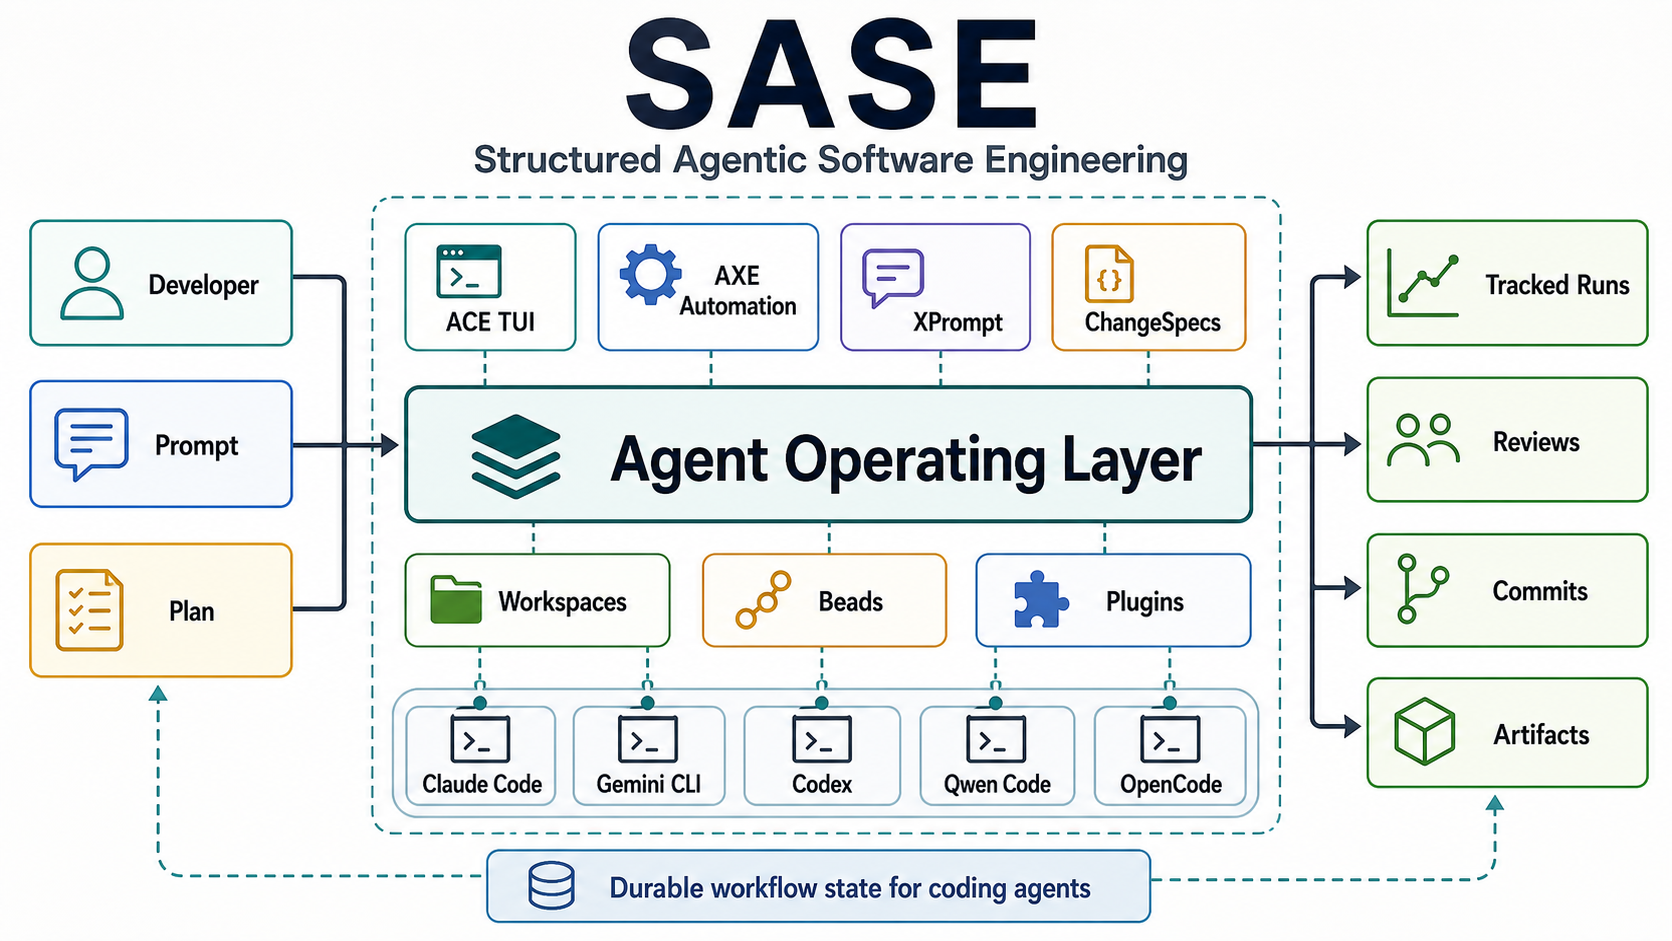
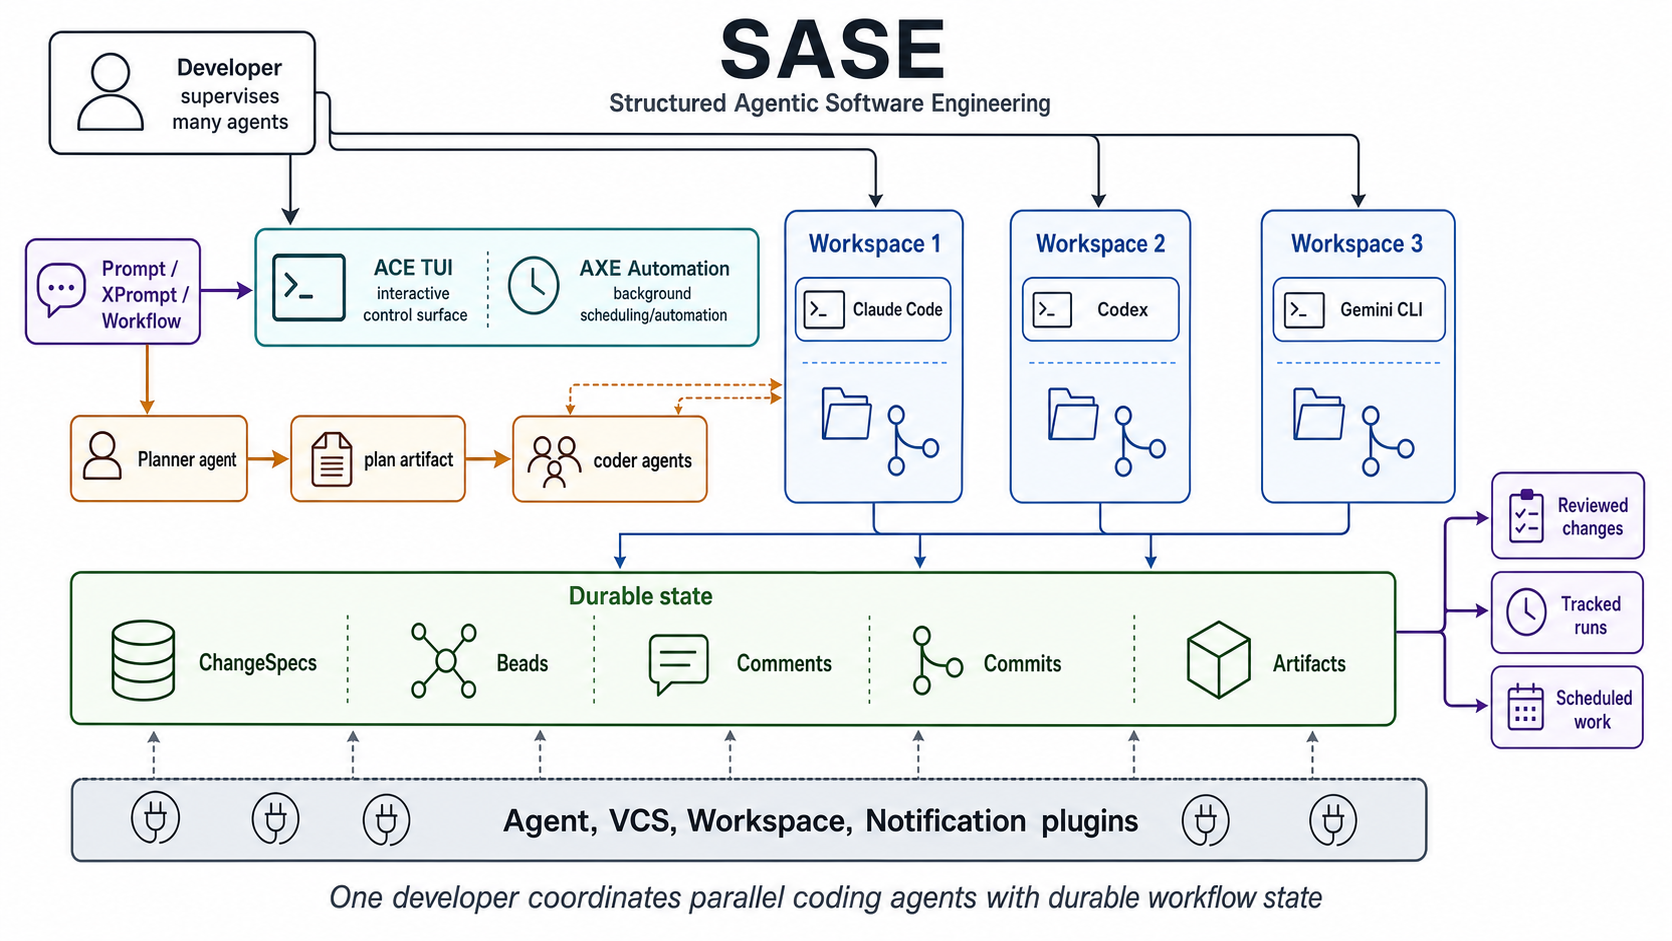
chore: update SASE overview image
Replace the README and docs overview image with a diagram that better reflects SASE's parallel workspace model, planner-to-coder handoff, durable state, and plugin boundaries.

Changed region(s): [[0.0, 0.0, 0.9952, 0.9862]]

diff --git a/docs/images/sase_overview.prompt.md b/docs/images/sase_overview.prompt.md
@@ -10,7 +10,7 @@ pdf: false
 - README insertion point: after the opening description and before `## Why sase`
 - Docs homepage insertion point: inside the hero visual
 - Final image: `docs/images/sase_overview.png`
-- Alt text: "Visual overview of sase"
+- Alt text: "Overview of SASE coordinating parallel coding agents, isolated workspaces, and durable workflow state"
 
 ## Final GPT Image Prompt
 
@@ -18,44 +18,67 @@ Use case: infographic-diagram
 
 Asset type: GitHub README overview image for the open-source project "sase - Structured Agentic Software Engineering".
 
-Primary request: Create a clean 16:9 landscape technical architecture infographic that explains SASE as an operating
-layer for dependable agent-driven software engineering. This image will render near the top of a GitHub README at about
-800px wide, so it must be readable, calm, and documentation-oriented.
+Primary request: Create a clean 16:9 landscape technical architecture infographic that accurately explains how SASE
+works. It must be readable at about 800px wide in a GitHub README, with short labels and precise flow.
 
 Exact visible labels to include, spelled exactly:
 
 - Title: SASE
 - Subtitle: Structured Agentic Software Engineering
-- Center hub: Agent Operating Layer
-- Left sources: Developer, Prompt, Plan
-- Agent row: Claude Code, Gemini CLI, Codex, Qwen Code, OpenCode
-- Core modules around the hub: ACE TUI, AXE Automation, XPrompt, ChangeSpecs, Workspaces, Beads, Plugins
-- Right outcomes: Tracked Runs, Reviews, Commits, Artifacts
-- Footer note: Durable workflow state for coding agents
+- Top-left actor: Developer supervises many agents
+- Coordination layer: ACE TUI + AXE Automation
+- Input lane: Prompt / XPrompt / Workflow
+- Planning handoff: Planner agent -> plan artifact -> coder agents
+- Workspace fan-out labels: Workspace 1, Workspace 2, Workspace 3
+- Agent labels inside workspaces: Claude Code, Codex, Gemini CLI
+- Provider boundary label: Agent, VCS, Workspace, Notification plugins
+- Durable state labels: ChangeSpecs, Beads, Comments, Commits, Artifacts
+- Outcome labels: Reviewed changes, Tracked runs, Scheduled work
+- Footer note: One developer coordinates parallel coding agents with durable workflow state
 
-Composition: Use a left-to-right systems diagram. On the left, show Developer, Prompt, and Plan as compact source cards
-feeding the central SASE hub. In the center, make "Agent Operating Layer" the largest architecture block, surrounded by
-smaller module blocks for ACE TUI, AXE Automation, XPrompt, ChangeSpecs, Workspaces, Beads, and Plugins. Beneath or
-within the central area, show a thin row of supported coding agents labeled Claude Code, Gemini CLI, Codex, Qwen Code,
-and OpenCode connected through the operating layer, not shown as competing products. On the right, split into four clear
-outcome blocks: Tracked Runs, Reviews, Commits, and Artifacts. Use arrows to show state and work flowing through SASE
-from inputs to agents to outcomes.
+Composition:
+
+- Show a left-to-right and top-to-bottom systems diagram, not a marketing poster.
+- Top left: a single Developer node supervising the system, with multiple thin lines reaching parallel workspaces.
+- Left/middle: a horizontal coordination layer labeled "ACE TUI + AXE Automation". ACE should read as interactive
+  control surface; AXE should read as background scheduling/automation.
+- Input lane feeds the coordination layer: "Prompt / XPrompt / Workflow".
+- Below input lane, show the planning handoff explicitly: "Planner agent -> plan artifact -> coder agents". The plan
+  artifact is produced by the planner and then handed to coder agents, not shown as a normal user input.
+- Center/right: show fan-out into three isolated workspace columns labeled "Workspace 1", "Workspace 2", and "Workspace
+  3". Each workspace contains one neutral terminal/chat agent pill labeled "Claude Code", "Codex", or "Gemini CLI" and a
+  small branch/file icon, implying real coding work happens in external agents inside isolated checkouts.
+- Beneath the workspaces, show a durable state layer as shared repositories/records: "ChangeSpecs", "Beads", "Comments",
+  "Commits", "Artifacts". Use database/document/node icons and arrows from workspaces back into state.
+- Along the lower edge, show a provider boundary strip labeled "Agent, VCS, Workspace, Notification plugins" to clarify
+  plugins are integration boundaries.
+- Right side outcomes: three compact blocks labeled "Reviewed changes", "Tracked runs", and "Scheduled work".
+
+Accuracy constraints:
+
+- Do not draw ACE, AXE, XPrompt, ChangeSpecs, Workspaces, Beads, and Plugins as equal sibling modules around a hub.
+- Do not make "Plan" look like a normal user-supplied input; show it as a planner-agent output handed to coder agents.
+- Do not draw agents as passive leaves. They are the execution workers inside isolated workspaces.
+- Do not use the phrase "Agent Operating Layer" anywhere.
+- Show parallelism clearly: one developer, several workspace columns, several agents working at once.
+- Show durable state separately from runtime coordination.
+- Show plugins as boundaries/integrations, not as a central feature box.
 
 Strict visual constraints: Do NOT draw or imitate any company, model, provider, or product logos. The supported-agent
-row must be plain text pills or neutral generic terminal/chat icons only. Do not use starbursts, knot symbols,
-official-looking app marks, mascots, badges, trademarks, or branded color marks. All icons must be generic line icons
-such as user, document, checklist, terminal, gear, chat bubble, folder, nodes, puzzle piece, graph, review, branch,
-cube, database.
+labels must be plain text pills or neutral generic terminal/chat icons only. Do not use starbursts, official-looking app
+marks, mascots, badges, trademarks, branded color marks, fake screenshots, code paragraphs, or watermarks. Icons must be
+generic thin line icons: user, terminal, clock, calendar, branch, folder, database, document, comment, checklist,
+artifact cube, plug.
 
 Style requirements: Technical architecture infographic, not marketing art. Light neutral background, dark readable text,
-crisp rounded rectangles with radius no more than 8px, precise arrows, subtle grid or paper texture only if it stays
-very faint. Use a restrained but varied palette with neutral base plus teal, blue, amber, and green accents so it does
-not read as one-hue. No logos, no mascots, no fake terminal screenshots, no code paragraphs, no decorative gradients, no
-dark background, no watermarks. Keep all text large and legible at GitHub README width. Generous spacing, professional
-open-source documentation feel.
+crisp rectangles with radius no more than 8px, precise arrows, generous spacing. Restrained varied palette: neutral base
+plus teal for coordination, blue for workspaces, amber for planning handoff, green for durable state, slate for provider
+boundary. Avoid one-hue palettes and decorative gradients. All text must be large, clean, and legible at README width.
+16:9 landscape PNG-like output, professional systems diagram.
 
 ## Post-Processing Notes
 
-Generated with the built-in image generation tool and copied into `docs/images/sase_overview.png`. A first pass had a
-similar composition but included provider-like marks in the supported-agent row; the final prompt added strict no-logo
-constraints and produced neutral terminal-style agent pills.
+Generated with the built-in image generation tool and copied into `docs/images/sase_overview.png`. This replacement was
+generated after an accuracy review of the earlier overview image. The revised prompt emphasizes one developer
+supervising parallel agents, planner-to-coder handoff through a plan artifact, isolated workspaces, durable workflow
+state, and plugins as provider boundaries.

diff --git a/docs/index.md b/docs/index.md
@@ -26,7 +26,7 @@ title: Structured Agentic Software Engineering
   </div>
 
   <figure class="sase-hero__visual">
-    <img src="images/sase_overview.png" alt="Overview of SASE coordinating agents, prompts, workflows, and engineering state">
+    <img src="images/sase_overview.png" alt="Overview of SASE coordinating parallel coding agents, isolated workspaces, and durable workflow state">
   </figure>
 </section>
 

diff --git a/README.md b/README.md
@@ -9,7 +9,7 @@
 runs a durable operating layer: isolated workspaces, reusable prompts, scheduling, status, review state, and commit
 flow.
 
-<img src="docs/images/sase_overview.png" alt="Visual overview of sase" width="800">
+<img src="docs/images/sase_overview.png" alt="Overview of SASE coordinating parallel coding agents, isolated workspaces, and durable workflow state" width="800">
 
 ## Why sase
 
